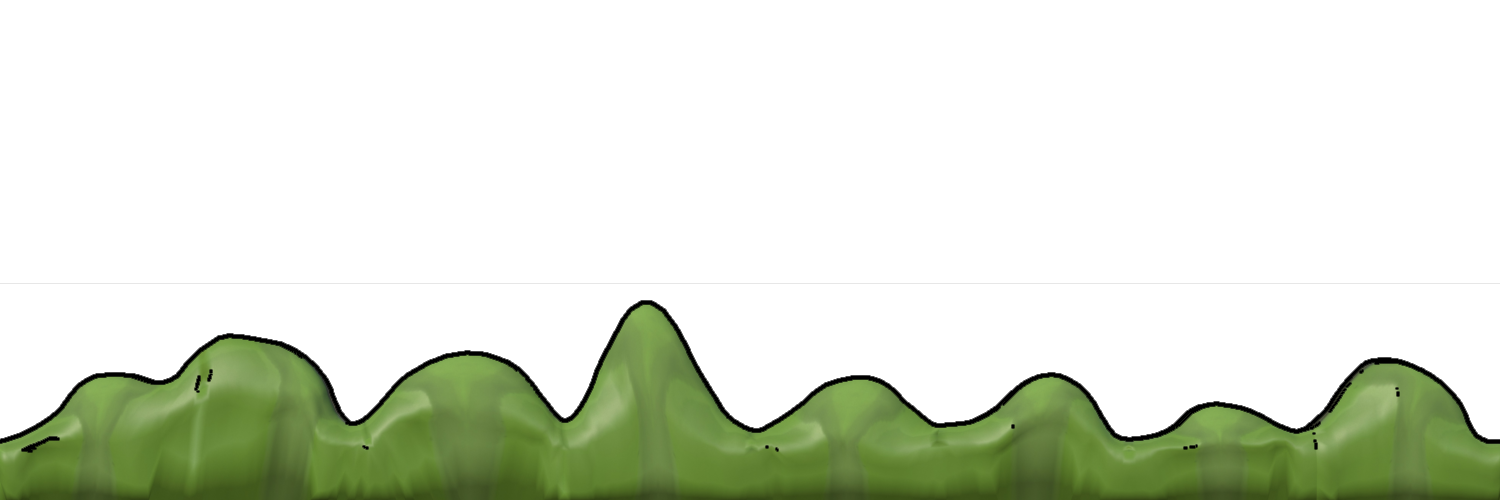
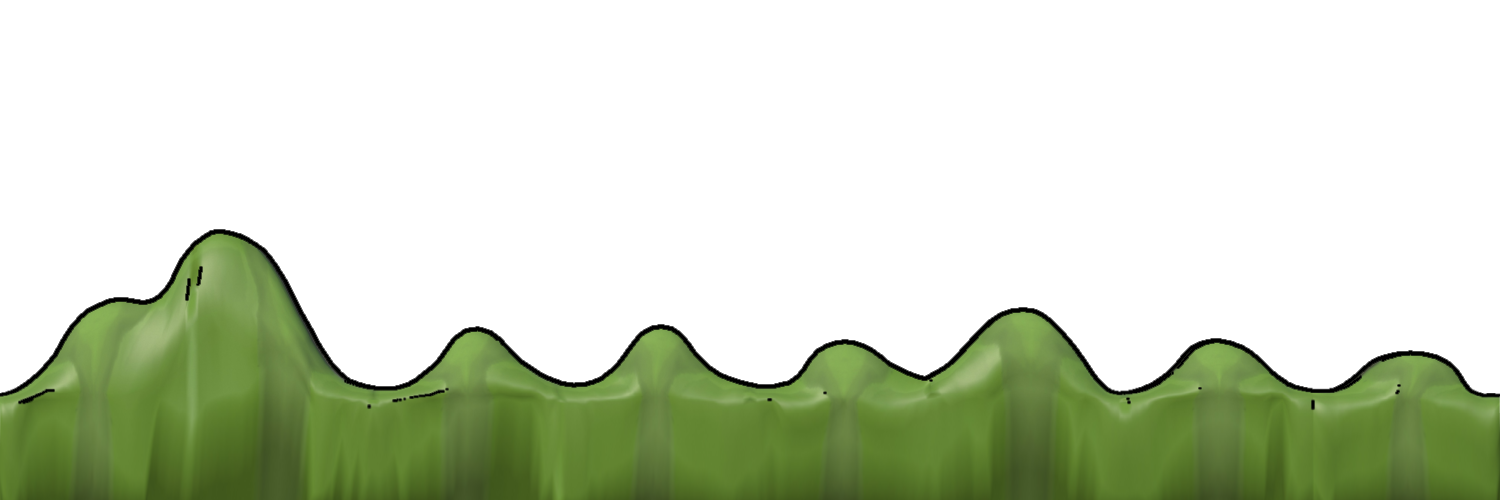
timer + shutdown

diff --git a/Game/PlayScene.cpp b/Game/PlayScene.cpp
@@ -1,7 +1,10 @@
 #include "PlayScene.h"
 #include "../Engine/SpriteRendererComponent.h"
+#include "Engine.h"
 #include "LevelGenerator.h"
 #include "Background.h"
+#include "TimerRenderer.h"
+#include "TimerComponent.h"
 #include <ScoreRenderer.h>
 
 void PlayScene::Create()
@@ -55,6 +58,11 @@ void PlayScene::Create()
 
     // On l'initialise en lui donnant le joueur � suivre
     generator->Init(player);
+
+
+    GameObject* uiManager = CreateGameObject({ 0.f, 0.f }, "UIManager");
+    uiManager->AddComponent<TimerRenderer>();
+    uiManager->SetZOrder(100);
 }
 
 
@@ -75,6 +83,19 @@ void PlayScene::Update(float dt)
     // si il existe 
     if (player)
     {
+
+        auto* timers = player->GetComponent<TimerComponent>();
+
+        // C'est ici qu'on utilise le booléen !
+        if (timers && timers->isGameOver)
+        {
+            std::cout << "Fermeture du jeu suite au Game Over..." << std::endl;
+
+
+            Engine::GetInstance()->Quit();
+        }
+
+
         // on recup sa pos et augemente le score en cons�quence
         float currentY = player->GetTransform().pos.y;
 

diff --git a/Engine/TimerRenderer.h b/Engine/TimerRenderer.h
@@ -1,19 +1,20 @@
 #pragma once
 #include <SFML/Graphics.hpp>
 #include "Component.h"
-#include <memory>
+#include <memory> 
 
 class TimerRenderer : public Component
 {
 public:
+    TimerRenderer() = default;
+
     void Create() override;
     void Render(sf::RenderWindow* window) override;
 
 private:
-    // Remplacement de unique_ptr par shared_ptr
-    std::shared_ptr<sf::Font> font;
-    std::shared_ptr<sf::Text> mainText;
-    std::shared_ptr<sf::Text> subText;
+    std::unique_ptr<sf::Font> font;
+    std::unique_ptr<sf::Text> mainText;
+    std::unique_ptr<sf::Text> subText;
 
     bool isHillMain = true;
 };
